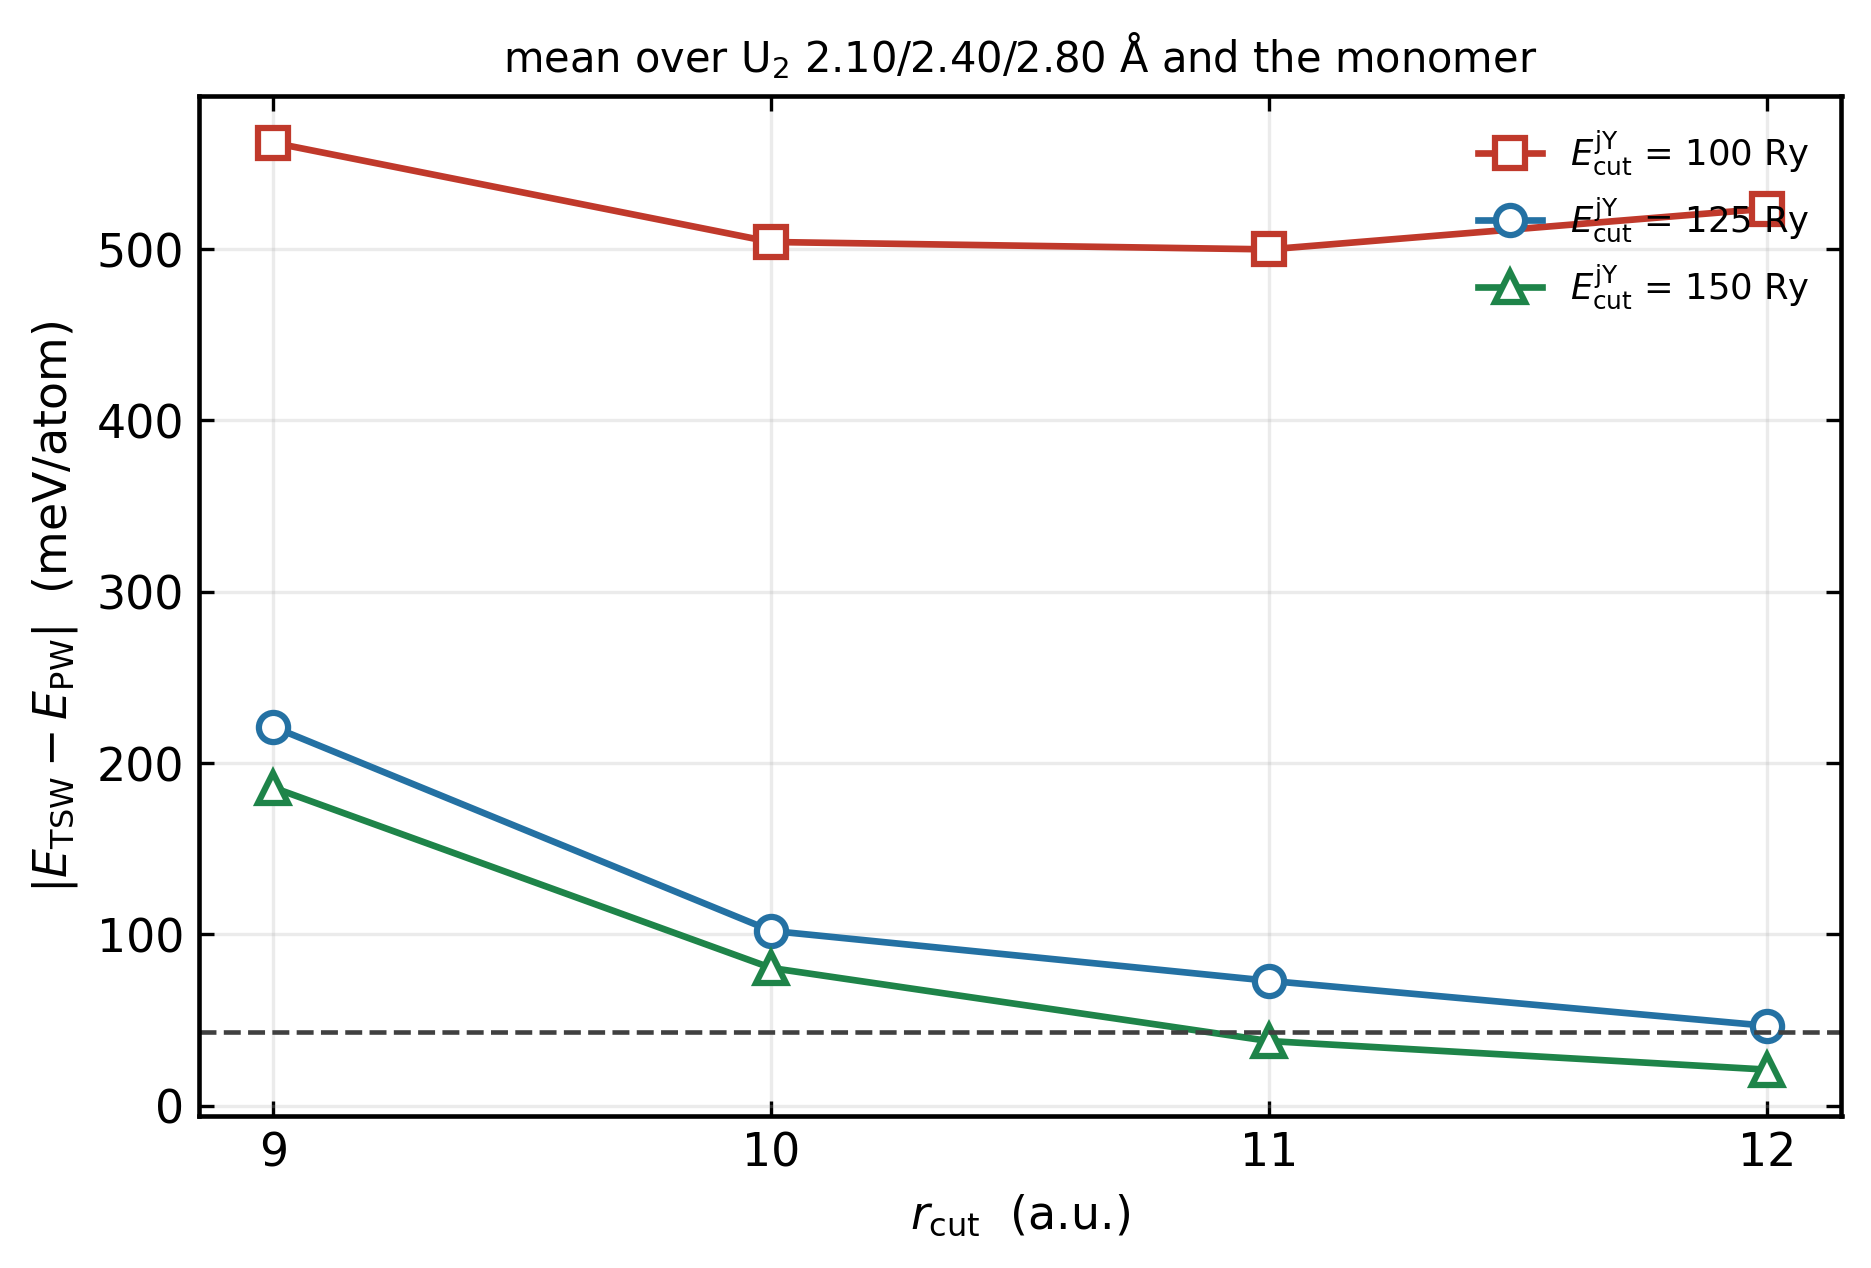
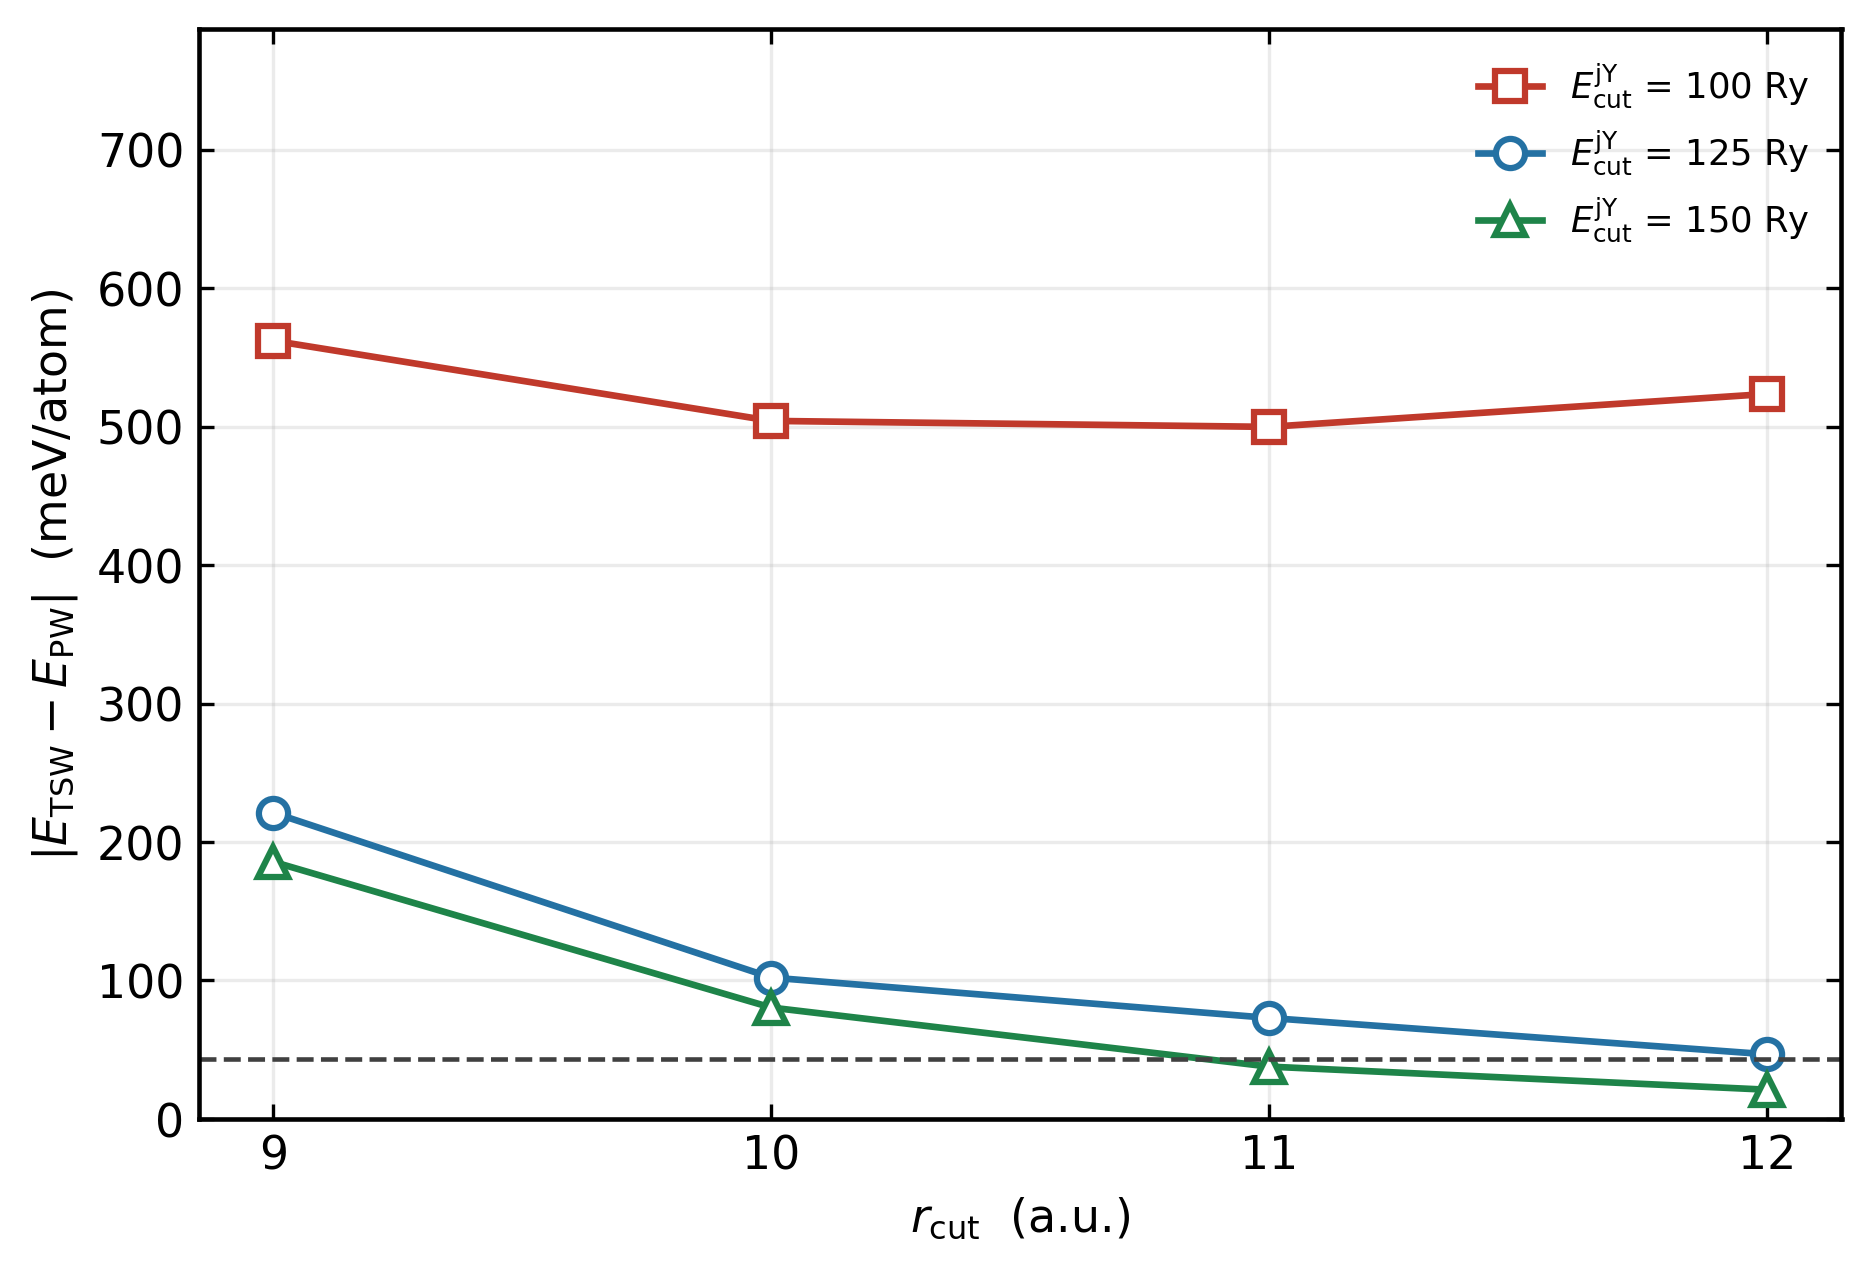
tsw_vs_pw.png: drop the title, leave 40% headroom above the data
The legend sat on top of the ecutjy=100 curve at r_cut 12 (523 meV of a 562 meV axis).
A y limit of 1.4x the largest value clears it without touching the data.

diff --git a/2-rcut-ecutjy/plot_tsw_vs_pw.py b/2-rcut-ecutjy/plot_tsw_vs_pw.py
@@ -77,8 +77,10 @@ def main() -> int:
                 textcoords="offset points", fontsize=9, color="0.15")
     ax.set_xlabel(r"$r_{\rm cut}$  (a.u.)")
     ax.set_ylabel(r"$|E_{\rm TSW} - E_{\rm PW}|$  (meV/atom)")
-    ax.set_title("mean over U$_2$ 2.10/2.40/2.80 Å and the monomer", fontsize=10)
     ax.set_xticks([9, 10, 11, 12])
+    # headroom above the data so the legend does not sit on the top-most curve
+    top = max(p["mean4"] for p in points if p["mean4"] is not None)
+    ax.set_ylim(0, top * 1.40)
     ax.legend(loc="upper right", fontsize=8.5, handlelength=1.8)
     ax.grid(alpha=0.25)
 
